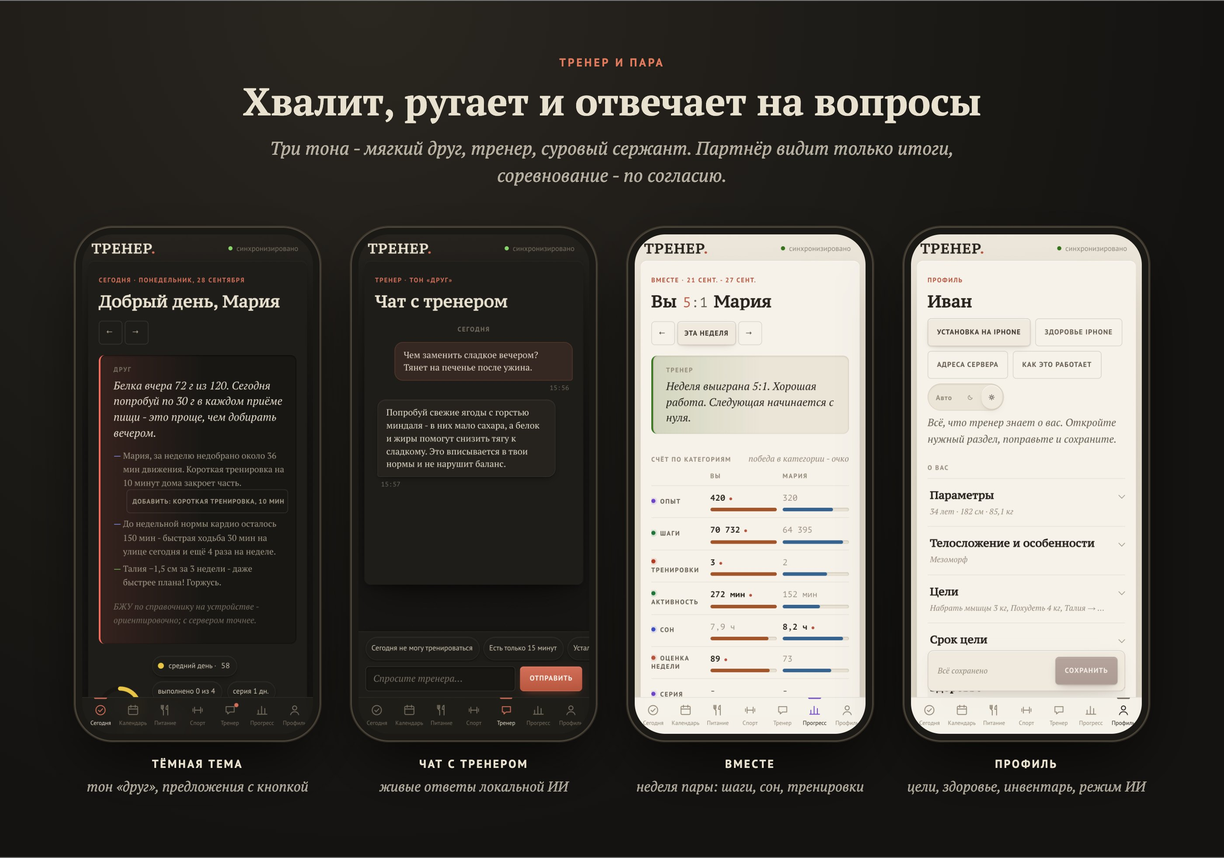
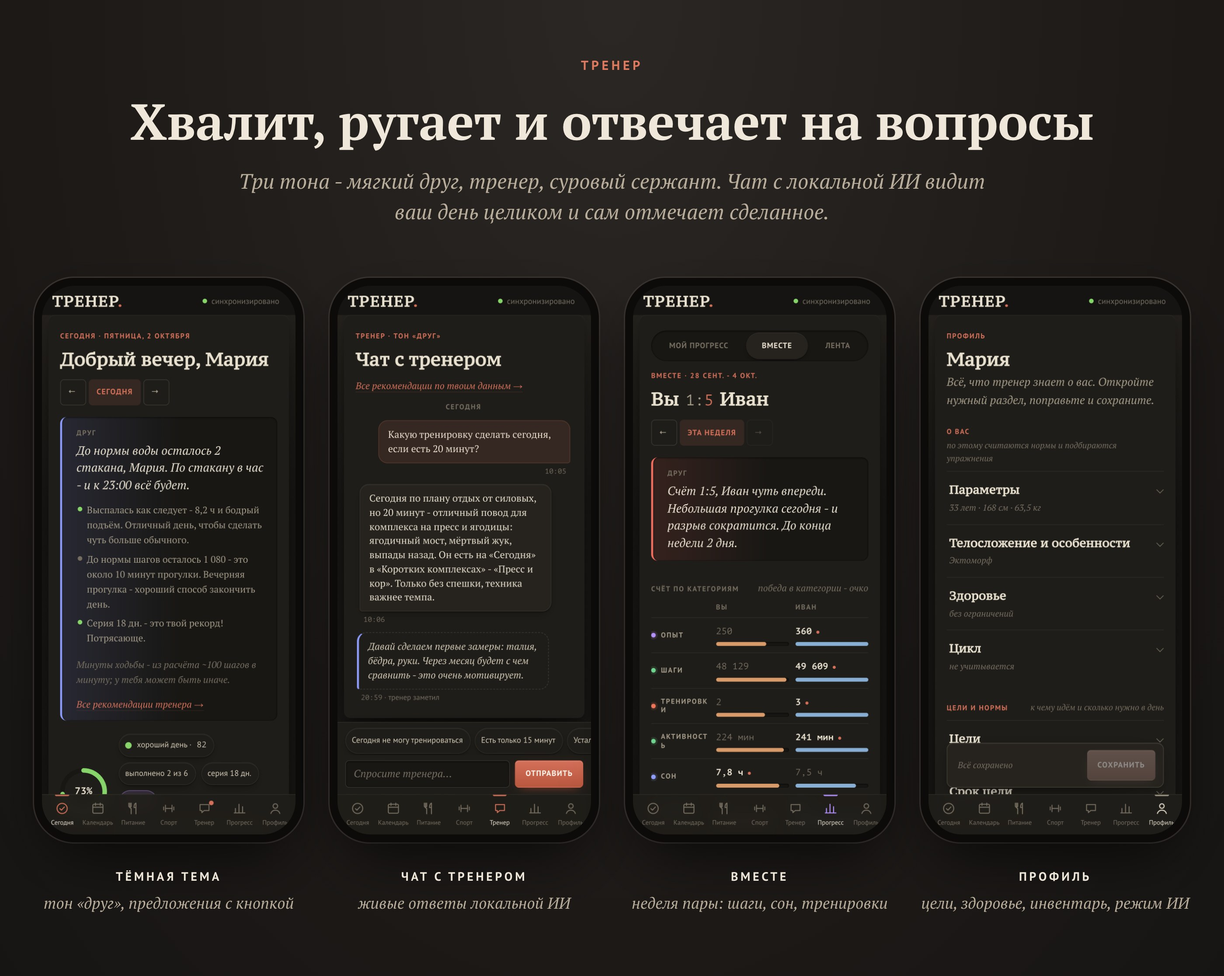
README: что нового, описание всех новшеств, свежие скриншоты
- Раздел «Что нового», обновлены питание, тренировки, «Вместе», надёжность, ИИ, настройки,
  тесты для разработчиков; до 20 аккаунтов, обновление из окна синхронизации.
- Скриншоты пересобраны на демо-данных Ивана и Марии, новые: together, workout, server.
- «Вместе» на телефоне: названия категорий не рвутся посреди слова; «Состояние сервера»:
  предупреждение не подписывается как «ни разу не работало».

diff --git a/app/static/views/about.js b/app/static/views/about.js
@@ -104,7 +104,7 @@ function sourcesBlock() {
   const rows = m.sources.map(x => {
     const tail = [];
     if (x.status === 'ok' && x.ms != null && x.code !== 'github') tail.push(`ответ ${x.ms < 1000 ? `${x.ms} мс` : `${(x.ms / 1000).toFixed(1).replace('.', ',')} с`}`);
-    if (x.status !== 'ok' && x.status !== 'off' && x.status !== 'unknown') tail.push(x.last_ok ? `последний раз работало ${when(x.last_ok)}` : 'ни разу не работало при проверках');
+    if (x.status === 'error') tail.push(x.last_ok ? `последний раз работало ${when(x.last_ok)}` : 'ни разу не работало при проверках');
     return `<div class="ops-row"><span class="ops-dot ${esc(x.status)}" title="${esc(LEVEL[x.status] || '')}"></span>
       <div class="ops-main"><div class="ops-name"><b>${esc(x.name)}</b> <span class="note">${esc(x.purpose)}</span></div>
         <div class="small ops-msg">${esc(x.message)}</div>${tail.length ? `<div class="note">${esc(tail.join(', '))}</div>` : ''}</div></div>`;

diff --git a/app/static/ui-c.css b/app/static/ui-c.css
@@ -316,3 +316,8 @@
 .ops-dot.error { background: var(--accent); box-shadow: 0 0 0 3px var(--accent-soft); }
 .ops-dot.off, .ops-dot.unknown { background: transparent; border: 1.5px solid var(--ink-3); width: 9px; height: 9px; box-sizing: border-box; }
 .ops .notice.ops-err { font-style: normal; color: var(--ink); overflow-wrap: anywhere; }
+/* «Вместе» на телефоне: названия категорий («тренировки», «активность») не рвутся посреди слова */
+@media (max-width: 480px) {
+  .t-row { grid-template-columns: minmax(0, 1.15fr) minmax(0, 1fr) minmax(0, 1fr); gap: 10px; }
+  .t-row > .t-cat { font-size: .66rem; letter-spacing: .03em; overflow-wrap: normal; word-break: normal; hyphens: none; }
+}

diff --git a/README.md b/README.md
@@ -14,6 +14,7 @@
 
 ## Содержание
 
+- [Что нового](#что-нового)
 - [Возможности](#возможности)
 - [Как это устроено](#как-это-устроено)
 - [Системные требования](#системные-требования)
@@ -22,6 +23,21 @@
 - [Обновление](#обновление)
 - [Настройки, данные и резервные копии](#настройки-данные-и-резервные-копии)
 - [Документация](#документация)
+
+## Что нового
+
+**Октябрь 2026**
+- **Блюдо с составом**: «шарлотка (яблоки, яйца, мука, сахар) 180 г» - тренер понимает, что 180 г - это всё блюдо, и раскладывает вес по ингредиентам обычного рецепта, а не считает 180 г сахара. В строках видно, к какому блюду относится ингредиент.
+- **Бренды без сети**: «сосиски папа может 2 шт», «йогурт активиа», «батончик bombbar» находятся в справочнике товаров сразу. Процент жирности учитывается: «молоко 2,5%» не превратится в 3,2%.
+- **Уточнение продуктов**: если под название подходят товары с заметно разными цифрами (разные вкусы, ошибки в источниках), тренер не гадает - показывает варианты по одному продукту и запоминает выбор. Точка на вкладке «Питание» напоминает, что выбрать.
+- **Поиск товаров в интернете**: кроме Open Food Facts - сайты-счётчики калорий с российскими брендами. Всё найденное сразу пополняет общий справочник: один нашёл - у всех есть.
+- **Этикетка камерой**: в «Свой продукт» - поле «Этикетка»; на iPhone «Сканировать текст» по таблице «Пищевая ценность», и ккал, белки, жиры и углеводы подставляются сами (на 100 г или на порцию).
+- **«Как у Марии»**: приём пищи, тренировку или активность партнёра можно скопировать к себе одной кнопкой и поправить как свою - если ели или занимались вместе. Только с разрешения партнёра.
+- **Справочник товаров** вырос до 14 500: латинские названия с наших полок и популярный спортпит. Дубли, которые появляются, когда справочник пополняют люди и интернет, сливаются сами.
+- **ИИ учит приложение**: каждый ответ ИИ по еде запоминается, и знакомое потом считается без неё; приложение тихо проверяет, угадало бы само, - по этой статистике видно, какие задачи скоро можно будет решать без ИИ. Учитываются только время и объём запросов, без содержания.
+- **Сервер следит за собой**: ежедневные проверенные резервные копии (14 дней + 8 недель + 12 месяцев, при желании - вторая папка, например iCloud Drive), проверка доступности внешних источников раз в 6 часов и метка «сервер: проблема» в шапке, если что-то сломалось.
+- **Суровый сержант стал добрее**: всё так же требователен и с армейским юмором, но ругает за поступки, а не за человека, и не стыдит за еду и тело.
+- **Страница больше не мигает**: обновляется только то, что изменилось, - чат не прыгает вниз, пока читаете старые сообщения.
 
 ## Возможности
 
@@ -44,14 +60,19 @@
 <p align="center"><img src="docs/screenshots/day.jpg" alt="Сегодня, питание и самочувствие, план недели, комплекс под цели"></p>
 
 ### Питание
-- Пишете как есть: «гречка 200 г, 2 яйца, кофе с молоком», «тарелка борща». Знакомое считается **сразу по справочнику** (≈ 1400 продуктов с порциями и ≈ 14 500 товаров из магазинов с брендами) и памяти тренера - без сети и без ИИ; новое по кнопке разбирает ИИ и запоминает.
+- Пишете как есть: «гречка 200 г, 2 яйца, кофе с молоком», «тарелка борща», «сосиски папа может 2 шт». Знакомое считается **сразу по справочнику** (≈ 1400 продуктов с порциями и ≈ 14 500 товаров из магазинов с брендами) и памяти тренера - без сети и без ИИ; новое по кнопке разбирает ИИ и запоминает.
+- **Блюдо с составом** - «шарлотка (яблоки, яйца, мука, сахар) 180 г»: ИИ понимает, что за блюдо, и раскладывает вес по ингредиентам пропорционально обычному рецепту. Явные КБЖУ в тексте («курица 200 г 250/30/5/10») считаются как на 100 г, по указанному весу.
+- **Уточнение продуктов**: разные цифры у одного товара (вкусы, ошибки в источниках) - выбор варианта по одному продукту, выбранное сохраняется в справочник. Мелкие расхождения тренер решает сам.
+- **Этикетка камерой**: «Свой продукт» → поле «Этикетка» → «Сканировать текст» на iPhone/iPad - цифры с таблицы «Пищевая ценность» подставляются сами.
 - **Подсказки из истории**: «Часто на завтрак» и «Вы уже ели» при наборе. Нажатие - окно «Записать снова», где можно поправить граммы каждого продукта.
 - Калории и БЖУ против нормы, оценка дня питания, окно питания (интервальное голодание), избранное, «как вчера».
-- «Как у Марии»: если ели одно и то же, приём пищи партнёра копируется к себе одной кнопкой и дальше правится как свой. Работает, только если партнёр сам разрешил это в профиле.
+- **«Как у Марии»**: если ели одно и то же, приём пищи партнёра копируется к себе одной кнопкой и дальше правится как свой - граммы, продукты, КБЖУ. Работает, только если партнёр сам разрешил это в профиле.
 - **Рацион на день** из простых продуктов под вашу норму; рецепты и уточнения - с ИИ.
 - Цели-привычки: меньше сахара, мучного, кофе, алкоголя, фастфуда, поздней еды.
 - Запись можно поправить по строкам: убрать лишнее, дописать продукт из справочника, изменить граммы.
-- Справочник продуктов пополняется: своё блюдо, поиск в интернете: Open Food Facts и сайты-счётчики калорий с российскими брендами (можно выключить). Найденное сразу попадает в общий справочник для всех; если источники дают для товара разные цифры, приложение спрашивает, какие совпадают с упаковкой. Товары из магазинов (Савушкин, Простоквашино, ВкусВилл…) уже встроены и работают без сети; обычные продукты в поиске идут первыми, товар - если в запросе есть бренд.
+- **Общий справочник, который растёт сам**: своё блюдо, этикетка, поиск в интернете («Найти с ИИ»: Open Food Facts и сайты-счётчики калорий с российскими брендами; можно выключить). Найденное сразу попадает в справочник для всех пользователей сервера; если источники расходятся, приложение спрашивает, какие цифры совпадают с упаковкой. Товары из магазинов (Савушкин, Простоквашино, ВкусВилл, Myprotein, Barebells, Bombbar…) уже встроены и работают без сети; обычные продукты в поиске идут первыми, товар - если в запросе есть бренд. Повторы сливаются сами раз в сутки, ссылки в записях переносятся.
+
+<p align="center"><img src="docs/screenshots/food.jpg" alt="Питание: блюдо с составом, уточнение продуктов, этикетка"></p>
 
 ### Тренировки
 - **Программа на 4-8 недель** в зал или дома: локальная ИИ составляет её под цели, дни недели, время, инвентарь, уровень и ограничения по здоровью; техника каждого упражнения - из каталога (≈ 230 упражнений с описанием, ошибками, вариантами проще и сложнее).
@@ -62,8 +83,10 @@
 - **Разгрузочная неделя** одной кнопкой, с отменой.
 - Тренировка «на любой случай» из генератора: есть 15 минут, болит колено, нет инвентаря.
 - **Домашние комплексы под цели** в дни без зала: зоны берутся из целей (руки, пресс, ноги, спина); если тренировок по программе меньше нормы - тренер добирает короткими тренировками.
+- **Своя программа или личный тренер в зале**: ИИ программу не составляет, вы записываете тренировки сами - поиск по каталогу, подходы и веса.
+- **«Как у Марии»** для тренировок и активностей: занимались вместе - копия тренировки партнёра (упражнения, подходы, веса) или активности (вид, минуты, интенсивность) к себе, калории - по вашему весу.
 
-<p align="center"><img src="docs/screenshots/food.jpg" alt="Питание, правка записи, товары из магазинов, тренировка"></p>
+<p align="center"><img src="docs/screenshots/workout.jpg" alt="Программа, тренировка с подходами и весами, техника, домашний комплекс"></p>
 
 ### Витамины и добавки (по желанию)
 - **Справочник** из 64 позиций - протеины, креатин, аминокислоты, витамины, минералы, омега-3, изотоники, «жиросжигатели» - с **силой доказательств** (A - сильные, B - умеренные, C - слабые, D - пользы не доказано) и источниками (ISSN, EFSA, NIH, Cochrane), обычной дозой, **безопасным дневным пределом**, противопоказаниями и предупреждениями.
@@ -90,10 +113,15 @@
 День, неделя, месяц, квартал, год: выполнение, тренировки, питание, сон и заметки; дневник любого дня.
 
 ### Вместе
-Партнёры видят **только итоги** друг друга: процент дня, серии, достижения. Соревнование по шагам, активности и сну - только если оба согласились. Еду, вес, замеры, сон и заметки не видит никто.
+- Партнёры видят **только итоги** друг друга: процент дня, серии, достижения, ленту «кто что делал» (тренировка, комплекс, активность - без подробностей). Соревнование по шагам, активности и сну со счётом недели - только если оба согласились.
+- «Подбодрить» готовой фразой, «Спасибо» в ответ; общие короткие комплексы, которые оба делают одинаково.
+- **Копия приёма пищи, тренировки или активности** партнёра - только если он сам разрешил это в профиле («Прогресс вместе»).
+- Еду, вес, замеры, самочувствие, цикл, добавки и заметки без разрешения не видит никто. Группы для 10-20 человек на одном сервере - у владельца.
+
+<p align="center"><img src="docs/screenshots/together.jpg" alt="Вместе: лента, копия приёма пищи и тренировки партнёра"></p>
 
 ### Чат с тренером
-Вопросы про питание, упражнения, самочувствие; тренер видит ваши данные и отвечает с кнопками-действиями (перенести тренировку, облегчить, записать еду). Частые ситуации - «не могу сегодня», «есть 15 минут», «болит…», «устал» - решаются быстрыми кнопками **без ИИ и без сети**.
+Вопросы про питание, упражнения, самочувствие; тренер видит ваши данные (день целиком: еду, добавки, чек-лист, комплексы) и отвечает с кнопками-действиями (перенести тренировку, облегчить, записать еду, отметить добавку - с «Отменить»). Частые ситуации - «не могу сегодня», «есть 15 минут», «болит…», «устал» - решаются быстрыми кнопками **без ИИ и без сети**. Тон - мягкий друг, тренер или суровый сержант (требовательный, но без унижения и стыда).
 
 <p align="center"><img src="docs/screenshots/coach.jpg" alt="Тёмная тема, чат, вместе, профиль"></p>
 
@@ -104,11 +132,19 @@
 Команда iOS отправляет на ваш компьютер шаги, активные калории, сон, вес, пульс в покое и HRV (для готовности дня). **Готовую команду** с вашим адресом и токеном сервер на Mac собирает и подписывает сам - кнопка «Добавить команду на iPhone» в профиле; остаётся одна автоматизация «каждый день в 22:30 - запустить команду» и один раз разрешить в настройках «Быстрых команд» отправку больших объёмов данных (шаги идут отдельными замерами - так сервер убирает двойной счёт iPhone и часов). Цикл добавляется в команду вручную (шаг в инструкции). Тренировки с часов встроенными действиями «Команд» не читаются - их можно добавить через стороннее приложение (например Toolbox Pro), сервер их принимает. Инструкция - [docs/HEALTH-SHORTCUT.md](docs/HEALTH-SHORTCUT.md).
 
 ### Надёжность и офлайн
-- Всё записывается на устройстве сразу и уходит на сервер при связи; правки с двух устройств сливаются, спорное приложение покажет и спросит.
+- Всё записывается на устройстве сразу и уходит на сервер при связи; правки с двух устройств сливаются, спорное приложение покажет и спросит - по-человечески, по каждой строке.
 - Автосохранение при вводе, отправка при сворачивании, повтор при сбоях хранилища.
+- Страница обновляется точечно: меняется только то, что изменилось, - прокрутка, раскрытые блоки и введённое остаются на месте.
 - Новая версия никогда не перезагружает страницу сама - метка «обновление» в шапке.
 - Запросы к ИИ, пока модель не запущена, ждут в очереди и выполняются сами (метка «ИИ спит»).
-- Ежедневные резервные копии базы (14 дней).
+- **Резервные копии** каждый день, каждая проверяется (файл цел, записи на месте); хранятся 14 дней, 8 недель и 12 месяцев, по желанию дублируются во вторую папку.
+- **Состояние сервера** («Как это работает»): последняя копия, внешние источники (поиск продуктов, погода, ИИ, обновления) с проверкой раз в 6 часов; если что-то сломалось - метка «сервер: проблема» в шапке.
+- Удаление чего угодно - только с подтверждением.
+
+<p align="center"><img src="docs/screenshots/server.jpg" alt="Состояние сервера, резервные копии, чему ИИ научила приложение"></p>
+
+### ИИ, которая учит приложение
+Каждый ответ локальной ИИ по еде запоминается: в следующий раз то же самое считается без неё, на устройстве. Приложение тихо пробует угадать само и сравнивает с ответом ИИ, а пояснение к нормам при тех же цифрах берёт из готовых ответов. В профиле («Данные и приватность» → «Чему ИИ научила приложение») видно, сколько задач было, сколько решено без ИИ и как часто приложение угадало бы само. Учитываются только время и объём запросов, без их содержания.
 
 ### Виджет macOS
 Для [Übersicht](https://tracesof.net/uebersicht/): включить и выключить сервер, кольцо выполнения дня, состояние локальной ИИ, «Открыть».
@@ -129,6 +165,7 @@
 - Чек-лист, оценки, реплики тренера, разминки и комплексы, готовность, цели, разбор еды по справочнику, анализ - **на устройстве, без сети**.
 - Сервер связывает устройства, считает точные нормы, принимает данные из «Здоровья», хранит базу и резервные копии.
 - Локальная ИИ пишет программы, разборы, рецепты, отвечает в чате и разбирает незнакомую еду. Сервер не запустится, если указать ИИ не на этом компьютере.
+- В интернет сервер ходит только за поиском продукта (уходит одно название) и погодой (координаты города); оба выключаются.
 - Подробно: [docs/HOW-IT-WORKS.md](docs/HOW-IT-WORKS.md), приватность - [docs/PRIVACY.md](docs/PRIVACY.md).
 
 ## Системные требования
@@ -212,7 +249,7 @@ uv run run.py
 - Запуск: ярлык «Тренер», `start.command` (macOS, двойной клик), `./start.sh` (Linux) или `start.bat` (Windows). Остановить - закрыть окно (или «Завершить» у значка в Dock).
 - На этом компьютере откройте **http://localhost:8791**.
 - Зарегистрируйтесь (первый аккаунт - владелец сервера), заполните профиль: пол, дату рождения, рост, вес, цели - и нажмите «Посчитать нормы».
-- Второй человек регистрируется со своего устройства; всего до 4 аккаунтов.
+- Остальные регистрируются со своих устройств; всего до 20 аккаунтов. Для большой компании владелец собирает группы - видимость прогресса внутри группы.
 
 ## Телефон и планшет
 
@@ -232,7 +269,7 @@ uv run run.py
 
 ## Обновление
 
-**Из приложения**: Профиль → **«Как это работает»** → **«Проверить обновления»** → список изменений → **«Обновить»**.
+**Из приложения**: окно синхронизации (нажмите «синхронизировано» в шапке) → **«Обновить приложение»** → список изменений → **«Обновить»**; или Профиль → **«Как это работает»** → **«Проверить обновления»**.
 Сервер сделает `git pull`, при необходимости доустановит библиотеки и перезапустится (около минуты); если библиотеки
 не встали - вернёт прежнюю версию. Обновляет владелец (первый аккаунт) или человек у самого компьютера; пока ИИ
 выполняет задачу, обновление подождёт. Телефоны и планшеты поставят новую версию сами, когда в приложении ничего не вводится
@@ -249,7 +286,7 @@ uv sync --frozen --no-dev
 
 ## Настройки, данные и резервные копии
 
-Всё хранится в папке **`data/`**: база `trainer.db` (SQLite), сертификаты, резервные копии `data/backups/` (каждый день, 14 последних).
+Всё хранится в папке **`data/`**: база `trainer.db` (SQLite), сертификаты, резервные копии `data/backups/` (каждый день с проверкой; 14 дней, 8 недель, 12 месяцев). Статус копий и кнопка «Сделать копию сейчас» - «Как это работает» → «Состояние сервера».
 Свои данные каждый может скачать: **Профиль → Приложение → «Скачать мои данные»**.
 
 Необязательные настройки - файл `settings.env` рядом с `run.py` (или переменные окружения):
@@ -261,15 +298,24 @@ uv sync --frozen --no-dev
 | `TRAINER_DATA` | `./data` | папка с базой и сертификатами |
 | `TRAINER_NO_WEB` | - | `1` - никаких запросов в интернет (поиск продуктов, погода) |
 | `OLLAMA_URL` | `http://127.0.0.1:11434` | адрес Ollama; **только этот компьютер** - иначе сервер не запустится |
+| `TRAINER_BACKUP_DIR` | - | вторая папка для резервных копий (iCloud Drive, внешний диск) |
 
 ## Документация
 
 - [HOW-IT-WORKS](docs/HOW-IT-WORKS.md) - что работает на устройстве, а что с сервером и ИИ
-- [PRIVACY](docs/PRIVACY.md) - какие данные где хранятся и кто их видит
+- [PRIVACY](docs/PRIVACY.md) - какие данные где хранятся, кто их видит и куда сервер ходит в интернет
 - [HEALTH-SHORTCUT](docs/HEALTH-SHORTCUT.md) - команда iOS для «Здоровья» и Apple Watch
 - [ARCHITECTURE](docs/ARCHITECTURE.md), [V2-CONTRACTS](docs/V2-CONTRACTS.md) - устройство и форматы данных для разработчиков
 
 Дизайн - «Стенограмма»: бумажный лист на тёмном столе, PT Serif / PT Sans / PT Mono, один акцент.
+
+### Для разработчиков: тесты
+```bash
+scripts/test.sh
+```
+Тесты сервера на свежей временной базе без сети (`tests/`, pytest), проверка синтаксиса JS и - если запущен тестовый
+сервер и указан `TRAINER_DATA` - сверка разбора еды «сервер = устройство» в headless Chrome (`tests/parity.mjs`):
+одни и те же фразы разбираются `app/food.py` и `app/static/foodparse.js`, результат должен совпасть.
 
 ## Лицензия
 
